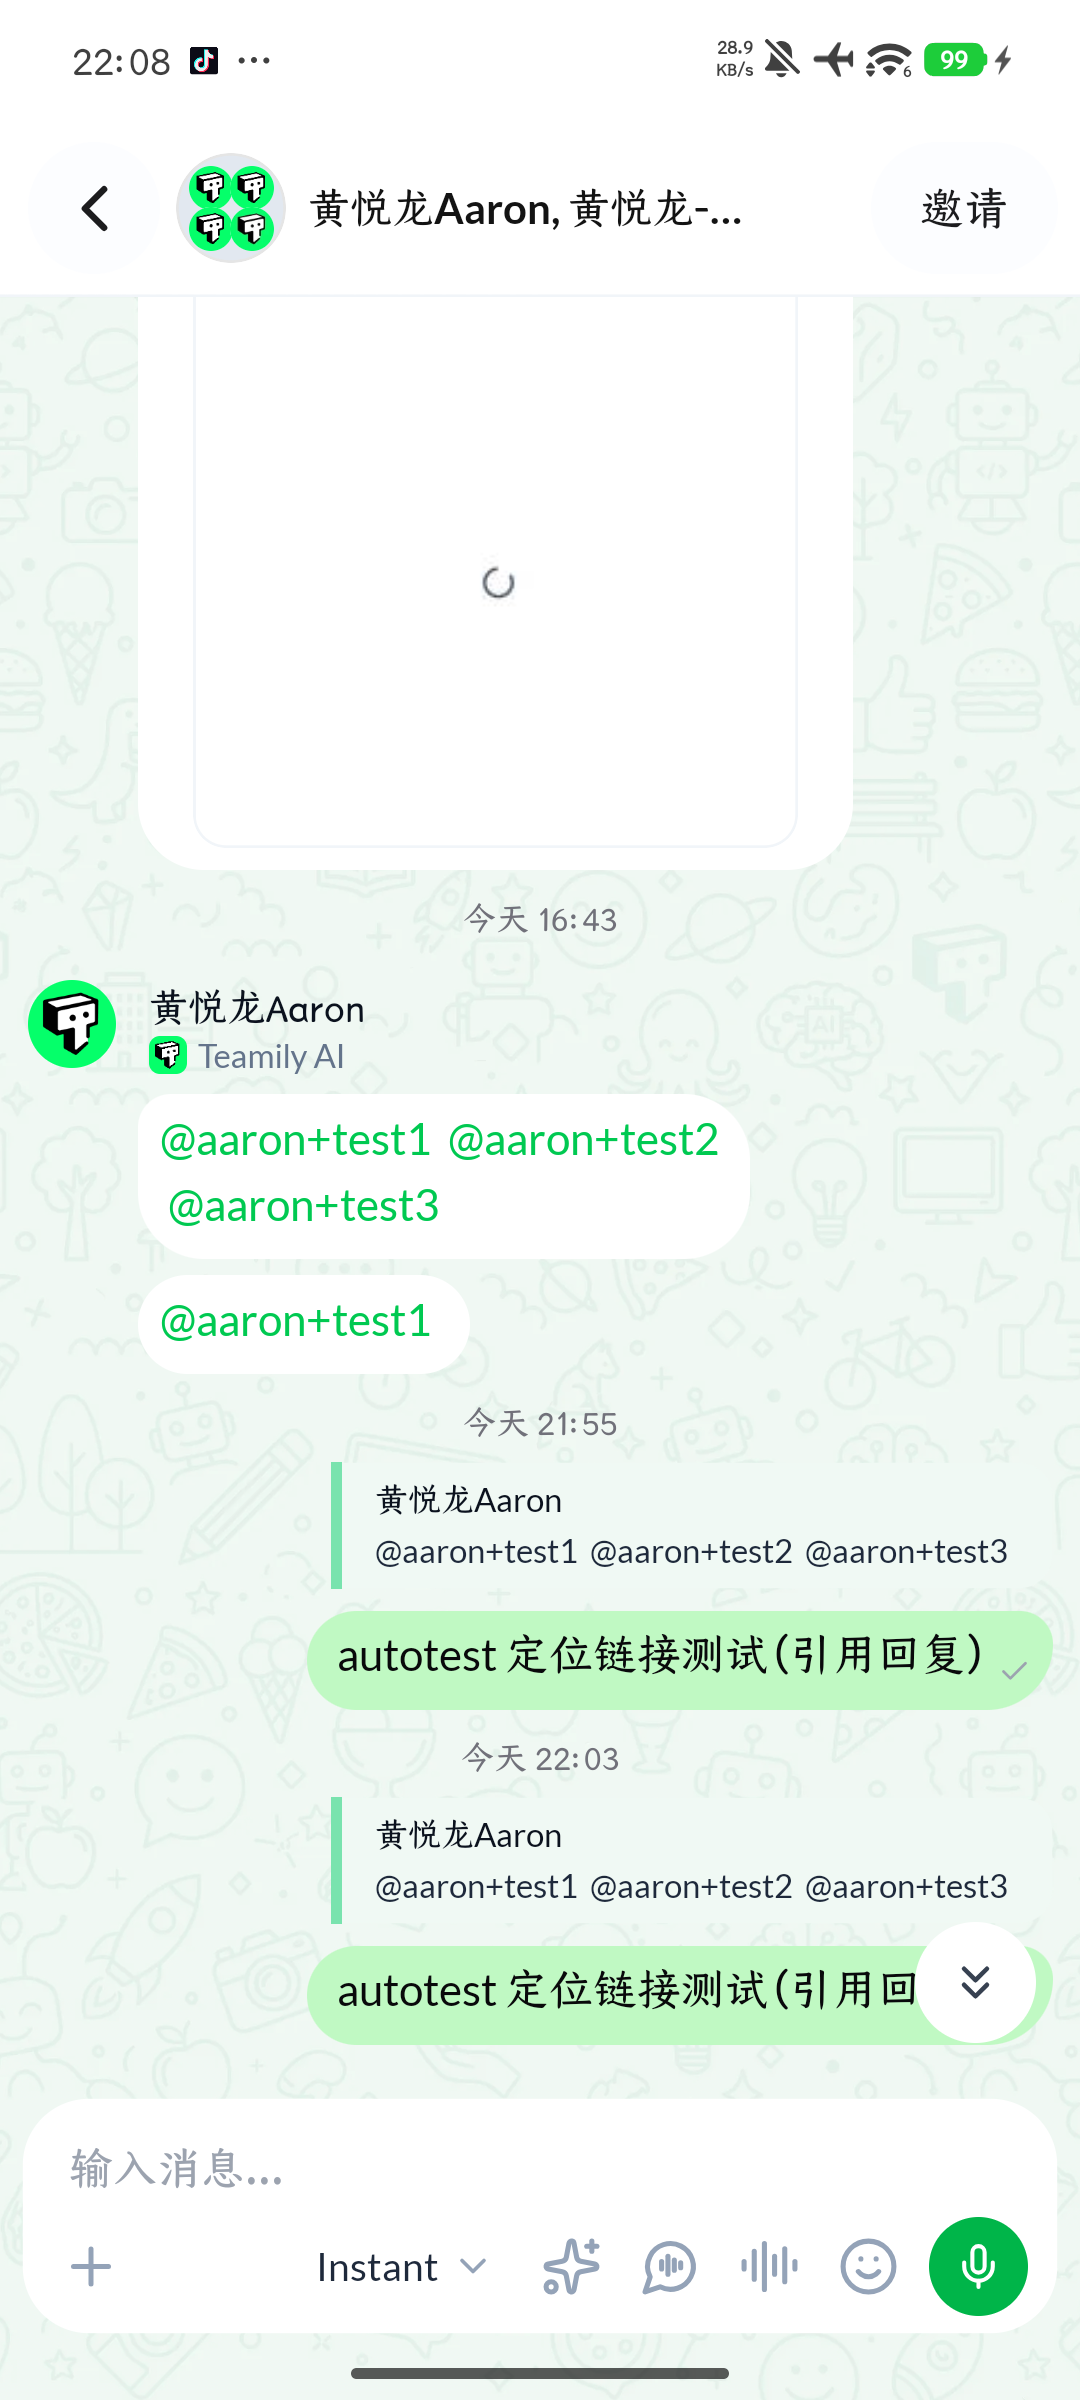
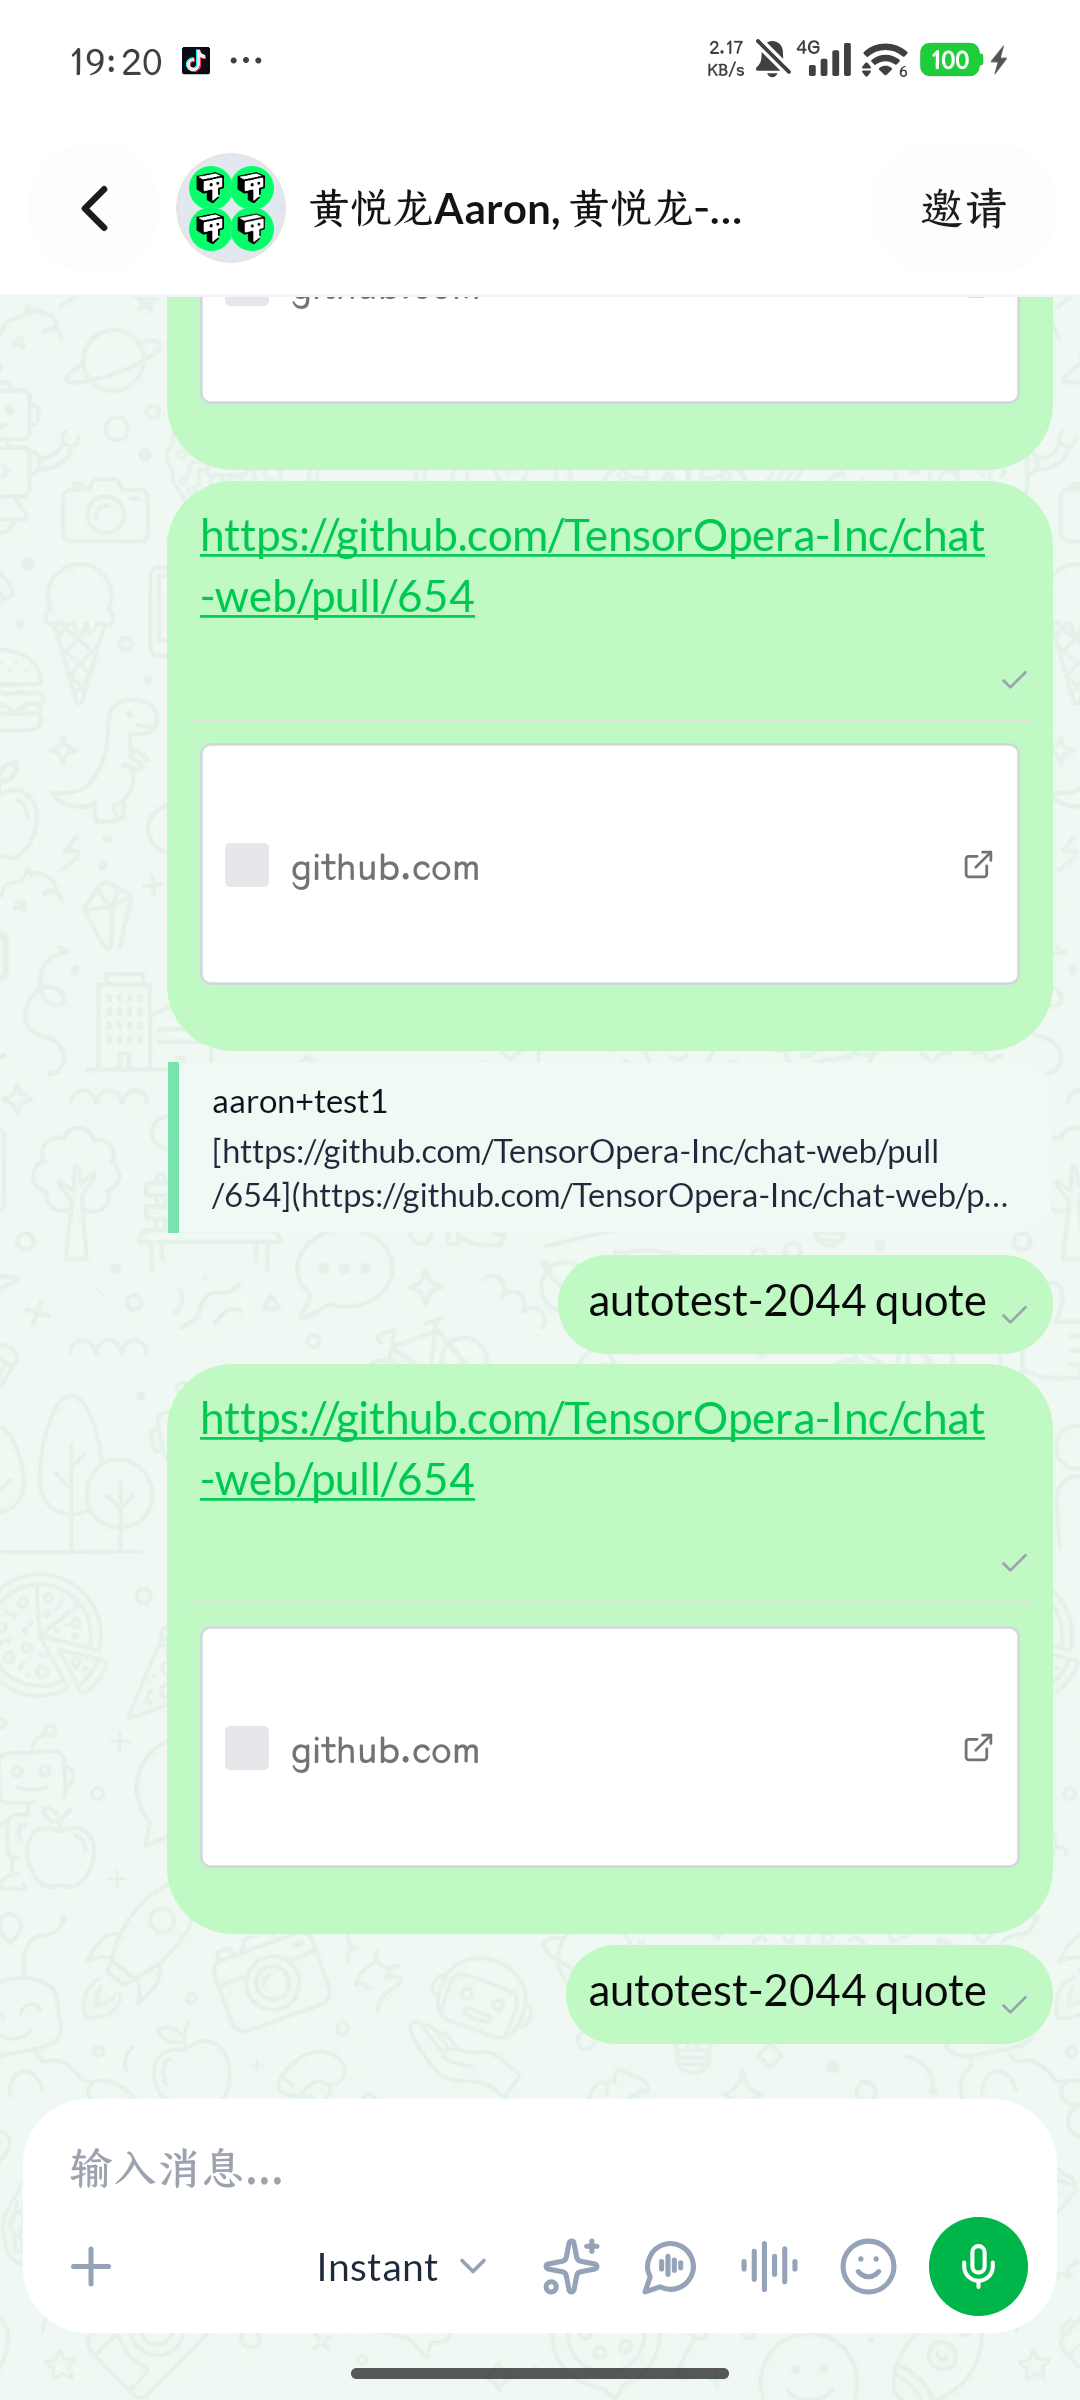
fix(warmup): focus = keyboard up or a page opening; android-app recalibrated with element fingerprints

diff --git a/scripts/w2m1-gate.ts b/scripts/w2m1-gate.ts
@@ -1,7 +1,7 @@
 // W2-1 P3 acceptance helpers (not a product entry): run a plan against a MODIFIED COPY of a profile
 // (the calibrated profile file is never written).
 //   tsx scripts/w2m1-gate.ts broken  --surface desktop-web   → warm-up must stop the plan (计划不可执行)
-//   tsx scripts/w2m1-gate.ts heal    --surface android-app   → nav.chat moved 200 px; fingerprint heals it
+//   tsx scripts/w2m1-gate.ts heal    --surface android-app   → chatlist.search moved 150 px up (blank title bar); fingerprint heals it
 import 'dotenv/config';
 import { profileKey } from '../drivers/factory';
 import { runDirFor, runPlan } from '../executor/run';
@@ -16,12 +16,15 @@ const { pool, devices } = await openPools();
 const udid = surface.startsWith('android') ? (await devices.refresh()).find((x) => x.kind === 'android')?.udid : undefined;
 const profile = structuredClone(loadProfile(profileKey(surface, 'prod', udid))!);
 if (mode === 'broken') profile.elements['nav.me'] = { ...profile.elements['nav.me'], box: [Math.round(profile.viewport.width * 0.6), Math.round(profile.viewport.height * 0.5), 10, 10] };
-else profile.elements['nav.chat'] = { ...profile.elements['nav.chat'], box: [profile.elements['nav.chat'].box[0], profile.elements['nav.chat'].box[1] - 200, profile.elements['nav.chat'].box[2], profile.elements['nav.chat'].box[3]] };
+else {
+  const b = profile.elements['chatlist.search'].box;
+  profile.elements['chatlist.search'] = { ...profile.elements['chatlist.search'], box: [b[0], b[1] - 150, b[2], b[3]] };
+}
 const id = `w2m1-${mode}-${surface}`;
 const plan: TestPlan = {
   id,
   issueRef: 'w2m1-gate',
-  title: mode === 'broken' ? '不可执行计划：nav.me 坐标错位（临时 profile 副本）' : '自愈：nav.chat 上移 200 px（临时 profile 副本）',
+  title: mode === 'broken' ? '不可执行计划：nav.me 坐标错位（临时 profile 副本）' : '自愈：chatlist.search 上移 150 px（临时 profile 副本）',
   category: 'bug-intermittent',
   surface,
   issueSurfaces: [],
@@ -30,7 +33,7 @@ const plan: TestPlan = {
   targets: [],
   setup: [],
   prepare: [],
-  actions: [{ type: 'tap', element: 'nav.me', delayAfterMs: 1000 }, { type: 'tap', element: 'nav.chat', delayAfterMs: 1000 }],
+  actions: mode === 'broken' ? [{ type: 'tap', element: 'nav.me', delayAfterMs: 1000 }, { type: 'tap', element: 'nav.chat', delayAfterMs: 1000 }] : [{ type: 'tap', element: 'chatlist.search', delayAfterMs: 1000 }, { type: 'back', delayAfterMs: 1000 }, { type: 'back', delayAfterMs: 1000 }],
   checks: [{ kind: 'crash', expect: 'no crash', want: 'absent' }],
   afterCheck: [],
   limits: { maxSteps: 6, maxMinutes: 5, maxIntervalMs: 1000 },

diff --git a/executor/warmup.ts b/executor/warmup.ts
@@ -94,7 +94,7 @@ export async function runWarmup(c: RunCtx): Promise<WarmupStep[]> {
     const fp = pt ? nodeAt(nodes, pt.x, pt.y) : undefined;
     const st: WarmupStep = { step: i + 1, action: actionLabel(a), expected: eff ? describeEffect(eff) : '（不核验）', observed: '', pass: null, ms: 0, point: pt, fingerprint: fp ? { text: fp.text, desc: fp.desc, cls: fp.cls } : undefined };
     const attempt = async () => {
-      const before = eff?.kind === 'change' ? decodePng(await d.screenshot()) : undefined;
+      const before = eff?.kind === 'change' || (eff?.kind === 'focus' && android) ? decodePng(await d.screenshot()) : undefined;
       d.label = `warmup:${actionLabel(a)}`;
       await c.exec(a);
       if (!eff) return { pass: null as boolean | null, observed: 'not verified', tier: undefined as string | undefined };
@@ -112,9 +112,14 @@ export async function runWarmup(c: RunCtx): Promise<WarmupStep[]> {
           return { pass: px >= min, observed: `screen Δ${px}px (min ${min})`, tier: '① pixels' };
         }
         case 'focus': {
+          // Focus = the keyboard comes up, or (e.g. the App's search box) a page opens.
           if (android) {
             const k = await keyboardShown(android.o.udid);
-            if (k !== null) return { pass: k, observed: `keyboard ${k ? 'shown' : 'not shown'}`, tier: '① system' };
+            if (k) return { pass: true, observed: 'keyboard shown', tier: '① system' };
+            const after = decodePng(await d.screenshot());
+            const px = pixelDiff(before!, after);
+            const min = Math.max(2000, Math.round(after.width * after.height * CHANGE_FRACTION));
+            return { pass: px >= min, observed: `keyboard ${k === null ? 'unknown' : 'not shown'}, screen Δ${px}px (min ${min})`, tier: '① system + pixels' };
           }
           return { pass: null, observed: 'focus not observable here', tier: undefined };
         }
